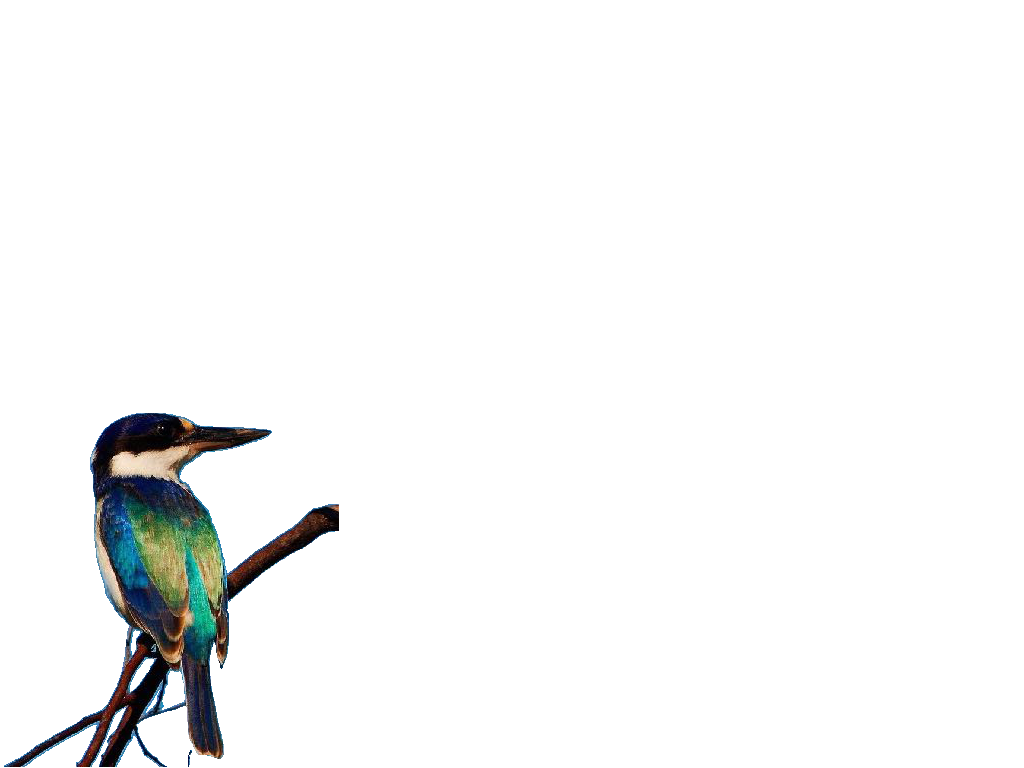
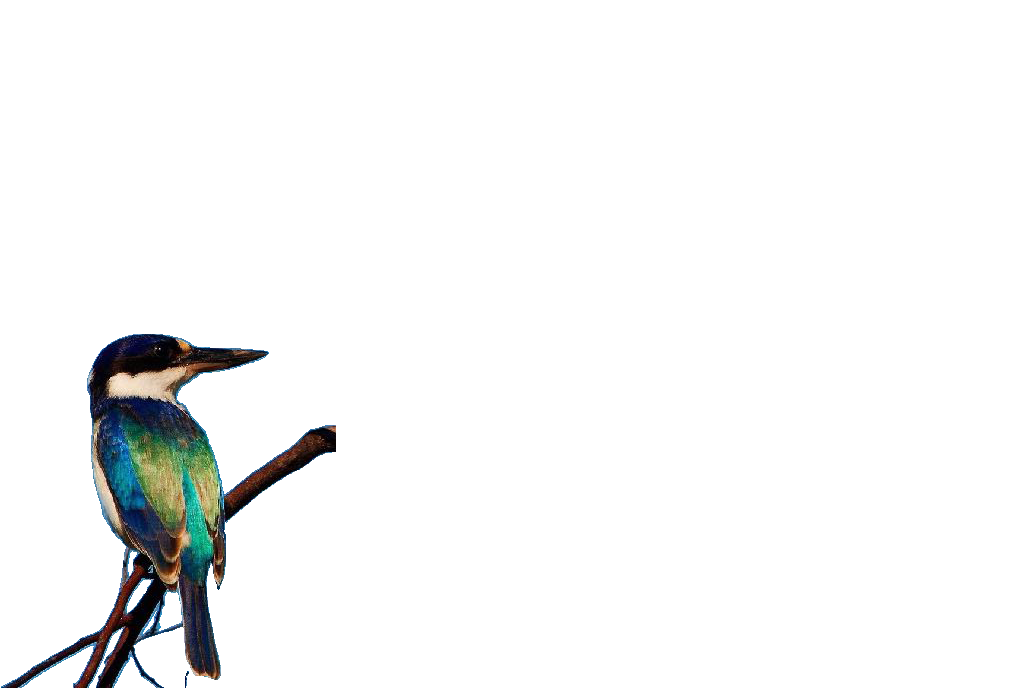
a possible theme for slides

Changed region(s): [[0.0, 0.4877, 0.3346, 1.0]]

diff --git a/my-theme.css b/my-theme.css
@@ -1,0 +1,23 @@
+.title-slide {
+  background-image: url(transparent_merops.png);
+  background-size: cover;
+  color: #0D4F8B;
+}
+.title-slide h1 {
+  text-shadow: none;
+  color: #006698;
+  margin-top: -70px;
+}
+.title-slide h2, .title-slide h3 {
+  text-shadow: none;
+  color: #0cb577;
+  line-height: 1.5em;
+}
+.title-slide .remark-slide-number {
+  display: none;
+}
+.inverse {
+  background-image: url(transparent_merops.png);
+  background-size: cover;
+  color: #0D4F8B;
+}
